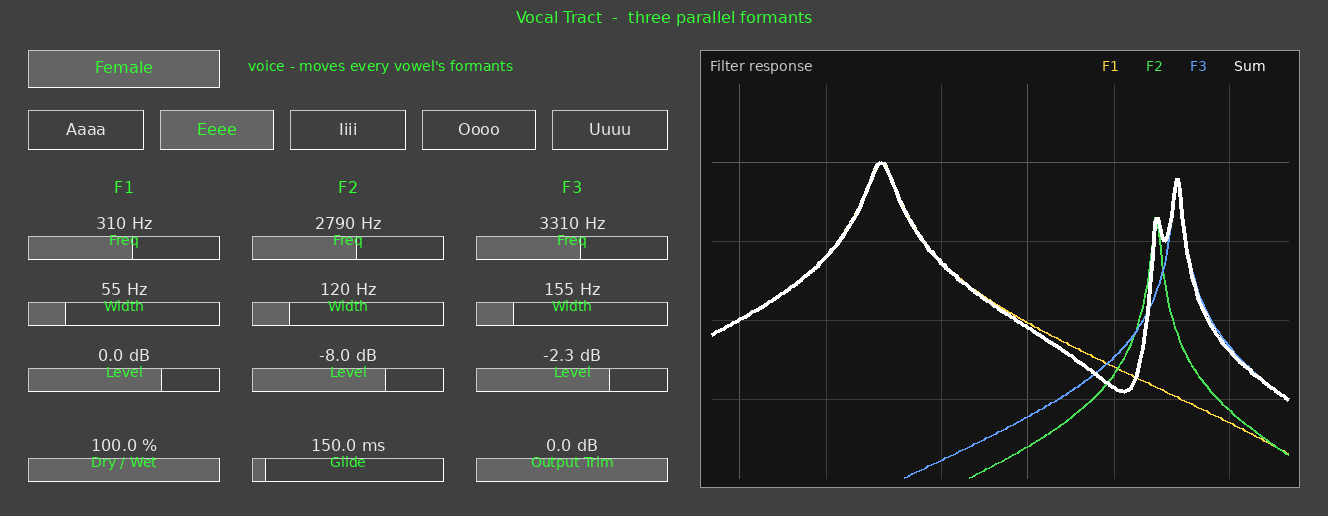
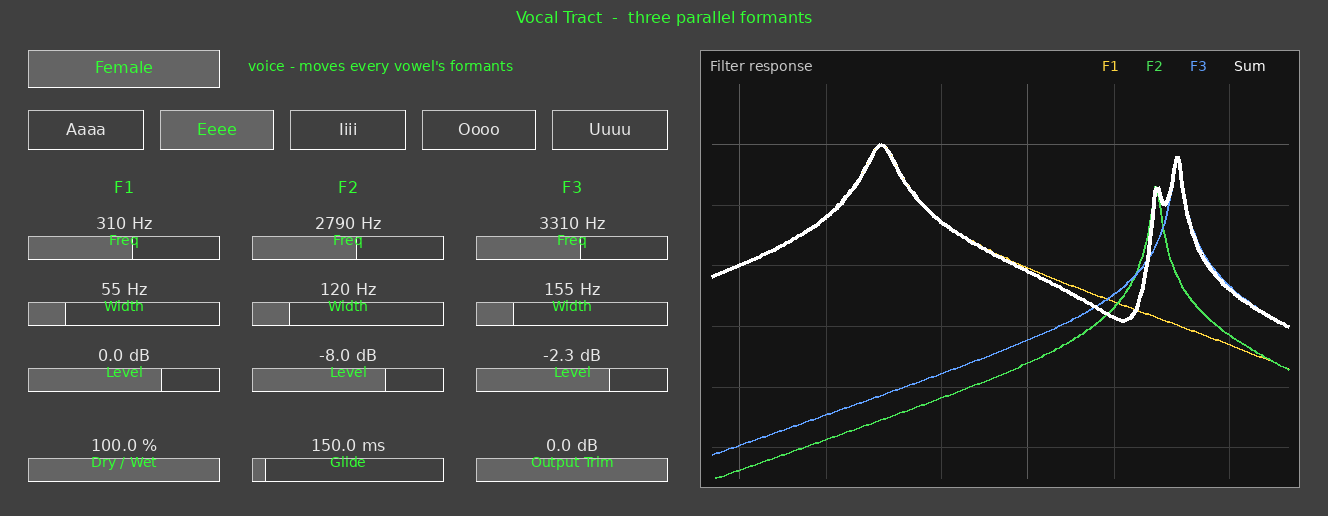
Display: deeper floor and a break taken to the edge; fix the render tool's table parse
Reported: on Uuuu, worst on the female voice, the summed response "wraps and
appears as an upward curve" where it drops off the bottom.

It was not wrapping - yOf clamps - but two things compounded:

* The sum goes far deeper than any single skirt. Three resonators in parallel
  with alternating polarity cancel where two meet in antiphase. Five of the
  ten presets put the sum below the old -48 dB floor; the deepest is -61.5 dB
  (female Aaaa, near 2 kHz). Those troughs were simply off the picture.

* Where a curve left the scale the line stopped in clear air: 240 samples over
  six and a half octaves means one sample can sit 15 dB above the floor and
  the next 10 dB below it, so the subpath ended well up the plot and the next
  one began the same way. Male Uuuu broke three times, female Uuuu twice, and
  what survived between two breaks was an arc floating in mid-plot with
  nothing joining it to anything - which is what a curve looks like when it
  turns round and comes back up.

Floor is now -66 dB (every preset's trough on scale, 12 dB grid kept, now down
to -60), and drawPolyline interpolates the crossing so a curve that does leave
runs down to the bottom edge and reappears from it.

Found while rendering the case: tools/render-panel.py parsed only four of the
five male vowels. The Aaaa entry names a shared array - { kAaaFormants[0], ... }
- rather than writing its numbers out, the row regex matched numeric triples
[…]

diff --git a/tools/render-panel.py b/tools/render-panel.py
@@ -52,18 +52,51 @@ def vowel_names(path):
     return re.findall(r'\{\s*"([^"]+)"\s*,\s*"([^"]+)"', block)
 
 
-def vowel_table(path, which):
-    """The five (freq, bandwidth, level) triples of one voice's table."""
+ROW_RE = re.compile(
+    r'\{\s*(-?[\d.]+)\s*,\s*(-?[\d.]+)\s*,\s*(-?[\d.]+)\s*\}'
+    r'|(k\w+)\s*\[\s*(\d+)\s*\]')
+
+
+def formant_array(path, name):
+    """The rows of a named `constexpr FormantSetting k...[]` array."""
+    text = open(path, encoding='utf-8').read()
+    block = text[text.index('constexpr FormantSetting ' + name):]
+    block = block[:block.index('};')]
+    return [tuple(float(v) for v in row)
+            for row in re.findall(
+                r'\{\s*(-?[\d.]+)\s*,\s*(-?[\d.]+)\s*,\s*(-?[\d.]+)\s*\}',
+                block)]
+
+
+def vowel_table(path, which, vowels, formants):
+    """Each vowel's (freq, bandwidth, level) triples, for one voice's table.
+
+    An entry may NAME a shared array - `{ kAaaFormants[0], ... }` - instead of
+    writing its numbers out, so references are resolved rather than skipped.
+    Skipping one used to shift every later vowel up a row, which drew the
+    WRONG vowel's numbers under a lit button without any complaint; the counts
+    are asserted so that a table this cannot read fails loudly instead.
+    """
     text = open(path, encoding='utf-8').read()
     block = text[text.index('constexpr VowelPreset kVowels' + which):]
     block = block[:block.index('};')]
-    rows = re.findall(
-        r'\{\s*([-\d.]+),\s*([-\d.]+),\s*([-\d.]+)\s*\}', block)
-    out, cur = [], []
-    for a, b, c in rows:
-        cur.append((float(a), float(b), float(c)))
-        if len(cur) == 3:
-            out.append(cur); cur = []
+    entries = re.split(r'\{\s*"[^"]+"\s*,', block)[1:]
+    if len(entries) != vowels:
+        raise SystemExit(f'kVowels{which}: read {len(entries)} entries, '
+                         f'expected kVowelCount = {vowels}')
+    out = []
+    for name, entry in zip(vowel_names(path), entries):
+        rows = []
+        for m in ROW_RE.finditer(entry):
+            if m.group(4):
+                rows.append(formant_array(path, m.group(4))[int(m.group(5))])
+            else:
+                rows.append(tuple(float(m.group(i)) for i in (1, 2, 3)))
+        if len(rows) != formants:
+            raise SystemExit(
+                f'kVowels{which} {name[0]}: read {len(rows)} formants, '
+                f'expected kFormantCount = {formants}')
+        out.append(rows)
     return out
 
 
@@ -169,7 +202,8 @@ for c, head in enumerate(('F1', 'F2', 'F3')):
             env['kHeadingTop'] + env['kHeadingHeight'], LABEL)
 
 # the grid, showing the Aaa patch
-TABLE = vowel_table(DSP, 'Female' if VOICE else 'Male')
+TABLE = vowel_table(DSP, 'Female' if VOICE else 'Male',
+                    env['kVowelCount'], env['kFormantCount'])
 SHOWN = TABLE[max(SELECTED - 1, 0)]
 AAA = [(f'{f:.0f} Hz', f'{b:.0f} Hz', f'{l:.1f} dB') for f, b, l in SHOWN]
 for c in range(3):
@@ -187,7 +221,7 @@ for c in range(3):
 # collides and that the legend is readable.
 # ---------------------------------------------------------------------------
 TRACE = ((255, 214, 64), (72, 226, 86), (96, 160, 255))
-MIN_HZ, MAX_HZ, MAX_DB, MIN_DB = 80.0, 8000.0, 12.0, -48.0
+MIN_HZ, MAX_HZ, MAX_DB, MIN_DB = 80.0, 8000.0, 12.0, -66.0
 FS = 44100.0
 
 
@@ -240,7 +274,7 @@ def y_of(v):
 for hz in (100, 200, 500, 1000, 2000, 5000):
     g = 90 if hz in (100, 1000) else 60
     d.line([x_of(hz) * SCALE, py0 * SCALE, x_of(hz) * SCALE, py1 * SCALE], fill=(g, g, g))
-for v in (0, -12, -24, -36):
+for v in (0, -12, -24, -36, -48, -60):
     g = 90 if v == 0 else 60
     d.line([px0 * SCALE, y_of(v) * SCALE, px1 * SCALE, y_of(v) * SCALE], fill=(g, g, g))
 
@@ -259,17 +293,34 @@ POLARITY = (1.0, -1.0, 1.0)
 
 
 def broken_line(sampler, colour, width):
-    run = []
+    """As drawPolyline draws it: broken where it leaves the bottom of the
+    scale, but taken TO the bottom edge by interpolating the crossing, so an
+    excursion off the scale cannot be mistaken for the curve turning back up.
+    """
+    def point(hz, v):
+        return (x_of(hz) * SCALE, y_of(v) * SCALE)
+
+    def crossing(hz_a, db_a, hz_b, db_b):
+        span = db_a - db_b
+        f = (db_a - MIN_DB) / span if span > 1e-12 else 0.0
+        return point(hz_a * (hz_b / hz_a) ** min(1.0, max(0.0, f)), MIN_DB)
+
+    run, prev = [], None
     for i in range(240):
         t = i / 239.0
         hz = MIN_HZ * (MAX_HZ / MIN_HZ) ** t
         v = sampler(hz)
         if v < MIN_DB:
-            if len(run) > 1:
-                d.line(run, fill=colour, width=width)
-            run = []
-            continue
-        run.append((x_of(hz) * SCALE, y_of(v) * SCALE))
+            if run:
+                run.append(crossing(prev[0], prev[1], hz, v))
+                if len(run) > 1:
+                    d.line(run, fill=colour, width=width)
+                run = []
+        else:
+            if not run and prev is not None:
+                run.append(crossing(hz, v, prev[0], prev[1]))
+            run.append(point(hz, v))
+        prev = (hz, v)
     if len(run) > 1:
         d.line(run, fill=colour, width=width)
 

diff --git a/source/VocalFilterDisplay.cpp b/source/VocalFilterDisplay.cpp
@@ -44,7 +44,7 @@ const CColor kCaption    (255, 255, 255, 200);
 
 /** Grid lines, and which of them are labelled. */
 constexpr double kDecades[] = { 100.0, 200.0, 500.0, 1000.0, 2000.0, 5000.0 };
-constexpr double kDbLines[] = { 0.0, -12.0, -24.0, -36.0 };
+constexpr double kDbLines[] = { 0.0, -12.0, -24.0, -36.0, -48.0, -60.0 };
 
 /** Points across the plot. One per pixel would be wasteful on a wide panel
     and jagged on a narrow one; a fixed count keeps the curve smooth and
@@ -140,9 +140,36 @@ void SpyResponseDisplay::drawPolyline (CDrawContext* context, const CRect& plot,
 	// A curve is BROKEN where it falls off the bottom of the scale rather
 	// than clamped to it. Clamping draws a flat line along the floor, which
 	// reads as a filter doing something quiet across the whole spectrum;
-	// F3 at -26.8 dB in the Aaa patch has skirts below -48 for most of the
-	// width and looked exactly like that.
+	// F3 at -26.8 dB in the Aaa patch has skirts below the floor for most
+	// of the width and looked exactly like that.
+	//
+	// But the break is taken TO THE EDGE, not to the last point that
+	// happened to be on the scale. The samples are 240 across six and a
+	// half octaves, so beside a notch one sample can sit 15 dB above the
+	// floor and the next 10 dB below it: simply dropping the second ended
+	// the line in clear air, well up the plot, and started the next piece
+	// the same way. A trough between two notches then appeared as an arc
+	// floating in the middle of the display with nothing joining it to
+	// anything - which is what it looks like when a curve turns round and
+	// comes back up. Interpolating the crossing makes the line run down to
+	// the bottom edge and reappear from it, so leaving the scale looks
+	// like leaving the scale.
+	const auto pointAt = [&] (double hz, double decibels)
+	{ return CPoint (xOf (hz, plot), yOf (decibels, plot)); };
+
+	// Where the segment between two samples crosses kMinDb. Linear in dB
+	// against log frequency, which is what the plot's own axes are.
+	const auto crossing = [&] (double hzA, double dbA, double hzB, double dbB)
+	{
+		const double span = dbA - dbB;
+		const double f = (span > 1e-12) ? (dbA - kMinDb) / span : 0.0;
+		const double t = std::min (1.0, std::max (0.0, f));
+		return pointAt (hzA * std::pow (hzB / hzA, t), kMinDb);
+	};
+
 	bool drawing = false;
+	double prevHz = 0.0, prevDb = 0.0;
+
 	for (int i = 0; i < kPoints; ++i)
 	{
 		const double t = i / static_cast<double> (kPoints - 1);
@@ -151,20 +178,30 @@ void SpyResponseDisplay::drawPolyline (CDrawContext* context, const CRect& plot,
 
 		if (decibels < kMinDb)
 		{
-			drawing = false;
-			continue;
+			if (drawing)
+			{
+				path->addLine (crossing (prevHz, prevDb, hz, decibels));
+				drawing = false;
+			}
 		}
-
-		const CPoint p (xOf (hz, plot), yOf (decibels, plot));
-		if (! drawing)
+		else if (! drawing)
 		{
-			path->beginSubpath (p);
+			if (i > 0)
+				path->beginSubpath (crossing (hz, decibels, prevHz, prevDb));
+			else
+				path->beginSubpath (pointAt (hz, decibels));
+
+			if (i > 0)
+				path->addLine (pointAt (hz, decibels));
 			drawing = true;
 		}
 		else
 		{
-			path->addLine (p);
+			path->addLine (pointAt (hz, decibels));
 		}
+
+		prevHz = hz;
+		prevDb = decibels;
 	}
 
 	context->drawGraphicsPath (path, CDrawContext::kPathStroked);

diff --git a/source/VocalFilterDisplay.h b/source/VocalFilterDisplay.h
@@ -49,12 +49,21 @@ public:
 	CLASS_METHODS (SpyResponseDisplay, VSTGUI::CView)
 
 	/** The axes. 80 Hz to 8 kHz covers every formant in the table with
-	    room either side; +12 to -48 dB covers the Level range plus the
-	    headroom a peak can reach. */
+	    room either side; +12 dB is the headroom a peak can reach.
+
+	    The floor is -66 dB, not the -48 it started at, because the SUM is
+	    drawn as well as the components and a parallel bank cancels. Where
+	    two formants meet in antiphase the sum digs a notch far below any
+	    single skirt: measured over the whole preset table the deepest is
+	    -61.5 dB (female Aaaa, near 2 kHz), and five of the ten presets go
+	    past -48. At the old floor those troughs ran off the bottom, and
+	    what was left on screen - the small rise BETWEEN two notches - read
+	    as the curve turning round and coming back up. -66 puts every
+	    preset's trough on the scale, and keeps the 12 dB grid spacing. */
 	static constexpr double kMinHz  =    80.0;
 	static constexpr double kMaxHz  =  8000.0;
 	static constexpr double kMaxDb  =    12.0;
-	static constexpr double kMinDb  =   -48.0;
+	static constexpr double kMinDb  =   -66.0;
 
 private:
 	VSTGUI::CCoord xOf (double hz, const VSTGUI::CRect& plot) const;

diff --git a/ENGINEERING-NOTES.md b/ENGINEERING-NOTES.md
@@ -859,7 +859,7 @@ hides the colour completely and "F1 yellow" stops being true where it matters
 most. Letting the trace underneath tint it turns the collision into
 information: white over yellow means F1 *is* the response there.
 
-The axis is 80 Hz – 8 kHz and +12 to −48 dB, fixed rather than auto-scaling,
+The axis is 80 Hz – 8 kHz and +12 to −66 dB, fixed rather than auto-scaling,
 so two vowels can be compared. Log frequency because a linear axis spends two
 thirds of its width above 3 kHz, where nothing in this plug-in lives, and
 squeezes F1 and F2 — the two that decide which vowel you hear — into a
@@ -878,8 +878,36 @@ slightly different pieces of code.
 **A curve is broken where it falls off the bottom of the scale**, not clamped
 to it. Clamping draws a flat line along the floor, which reads as a filter
 doing something quiet across the whole spectrum — F3 at −26.8 dB in the Aaa
-patch has skirts below −48 for most of the width and looked exactly like
-that.
+patch has skirts below the floor for most of the width and looked exactly
+like that.
+
+**But the break is taken to the edge, and the floor is −66 dB rather than the
+−48 it started at.** Both came out of one report: on Uuuu, and worst on the
+female voice, the summed response "wraps and appears as an upward curve".
+
+It was not wrapping — `yOf` clamps, so it cannot. Two things compounded:
+
+* The **sum** goes far deeper than any single skirt. Three resonators in
+  parallel with alternating polarity cancel where two of them meet in
+  antiphase, and the notch that digs is nothing like the component curves
+  around it. Measured across the whole preset table, five of the ten presets
+  put the sum below −48 dB, and the deepest is **−61.5 dB** (female Aaaa,
+  near 2 kHz). At the old floor those troughs were simply not on the picture.
+* Where a curve did leave the scale, the line **stopped in clear air**. The
+  240 samples span six and a half octaves, so beside a notch one sample can
+  sit 15 dB above the floor and the next 10 dB below it; dropping the second
+  ended the subpath well up the plot and started the next one the same way.
+  Male Uuuu broke three times, female Uuuu twice, and what survived between
+  two breaks was a **short arc floating in the middle of the display with
+  nothing joining it to anything** — which is exactly what a curve looks like
+  when it turns round and comes back up.
+
+So: −66 dB puts every preset's trough on the scale (and keeps the 12 dB grid
+spacing, now down to −60), and `drawPolyline` interpolates the crossing so a
+curve that does leave runs **down to the bottom edge** and reappears from it.
+Leaving the scale now looks like leaving the scale. The floor costs 23% of
+the vertical resolution on the peaks, which is worth paying to stop the
+display lying about the shape of the response.
 
 #### Getting live values from the processor to the editor
 
@@ -931,11 +959,34 @@ reach — see the BUG entry above.
 geometry, the colours, the readouts — so it can be **looked at**. The
 constants are not duplicated in it: they are parsed out of
 `VocalFilterEditor.h` and evaluated in declaration order, and the vowel names
-out of `VocalFilterDsp.h`, so the picture cannot drift from the code. If a
-constant becomes an expression the script cannot evaluate, it fails loudly
-rather than drawing a layout that is not the one that will ship.
+and formant tables out of `VocalFilterDsp.h`, so the picture cannot drift
+from the code. If a constant becomes an expression the script cannot
+evaluate, it fails loudly rather than drawing a layout that is not the one
+that will ship.
 
-The panel is **664 × 229**. It grew RIGHTWARDS to make room for the response
+**BUG (found, fixed): it drifted anyway, silently.** The male table's Aaaa
+entry names a shared array — `{ kAaaFormants[0], kAaaFormants[1],
+kAaaFormants[2] }` — instead of writing its numbers out. The row regex
+matched numeric triples only, so that entry contributed nothing, every later
+vowel shifted up one, and the script found four vowels where the header
+declares five. The committed `docs/panel.png` and `docs/panel-vowel.png` had
+the **Aaaa button lit over Eeee's numbers** (270 / 2290 / 3010 instead of
+730 / 1090 / 2440), and asking for Uuuu crashed with `IndexError`. A tool
+whose whole claim is that the picture cannot drift from the code drew a
+picture that had.
+
+Two fixes, and the second matters more: references are now resolved, *and*
+the entry and formant counts are checked against `kVowelCount` and
+`kFormantCount`, so a table this cannot read stops the script instead of
+quietly renaming somebody else's numbers. Deleting a vowel from a copy of the
+header now gives `kVowelsMale: read 4 entries, expected kVowelCount = 5`; the
+old parser gave the same four rows it always did, and said nothing.
+
+The lesson is the general one: a generated artefact needs to fail loudly on
+a partial read, because a **partial** parse looks exactly like a successful
+one — right shape, right count of things on screen, wrong numbers.
+
+The panel is **664 × 258**. It grew RIGHTWARDS to make room for the response
 display — every slider position is unchanged by its arrival, which is what
 having the layout come out of one grid buys. A second argument picks which vowel button to draw lit —
 `docs/panel.png` is the default state, Manual with none lit, and

diff --git a/docs/README.md b/docs/README.md
@@ -60,11 +60,19 @@ not host automation.
 
 The editor's layout, drawn by `tools/render-panel.py`. Not screenshots and not
 mock-ups: the script **parses the layout constants out of
-`source/VocalFilterEditor.h`** and the vowel names out of
+`source/VocalFilterEditor.h`** and the vowel names and formant tables out of
 `source/VocalFilterDsp.h` and evaluates them in declaration order, so a
 control in the wrong place here is in the wrong place in the plug-in. If a
 constant ever becomes an expression the script cannot evaluate, it fails
 loudly rather than drawing a layout that is not the one that will ship.
+
+It also checks that it read `kVowelCount` entries of `kFormantCount` formants
+each, and stops if it did not. That check exists because it once did not:
+the male Aaaa entry names a shared array rather than writing its numbers out,
+the row regex skipped it, every later vowel shifted up one, and these two
+files sat in the repository with the **Aaaa button lit over Eeee's numbers**.
+A partial parse looks exactly like a successful one — same layout, same count
+of readouts, wrong values — so the counts are asserted rather than trusted.
 
 ```sh
 python3 tools/render-panel.py                           # Manual, male: no button lit
@@ -83,9 +91,14 @@ resolve about 11 px apart on the 288 px plot, and narrowing the axis from
 vowel button lit, which is what the Vowel parameter looks like on a preset
 whether it got there from a click or from automation.
 
-Looking at these caught two faults that reading the code had not: F3's skirts
-drew a flat line along the bottom of the response display instead of ending,
-and the legend ran off the plate when "Sum" was added to it.
+Looking at these caught three faults that reading the code had not: F3's
+skirts drew a flat line along the bottom of the response display instead of
+ending; the legend ran off the plate when "Sum" was added to it; and the sum,
+where it dived past the old −48 dB floor, left an arc floating in mid-plot
+that read as the curve turning back up. The display's floor is now −66 dB —
+below every preset's deepest notch, the worst being female Aaaa at −61.5 —
+and a curve that does leave the scale is drawn down to the bottom edge rather
+than stopping at the last sample that happened to be on it.
 
 The response curves in `render-panel.py` are a **re-implementation** of
 `bandpassMagnitude` for the mock — the real one is in `VocalFilterDsp.cpp` and

diff --git a/README.md b/README.md
@@ -102,7 +102,10 @@ moves F2 by at most 3.8 semitones against up to 16.8, so the same Glide time
 sounds far less dramatic.
 
 The display draws each formant's response — F1 yellow, F2 green, F3 blue — and
-the summed response in white, following the DSP in real time as it glides.
+the summed response in white, following the DSP in real time as it glides. The
+axis is fixed at 80 Hz – 8 kHz and +12 to −66 dB so two vowels can be
+compared; the floor is that low because three resonators summed with
+alternating polarity notch far deeper than any of them does alone.
 
 ## Building
 
